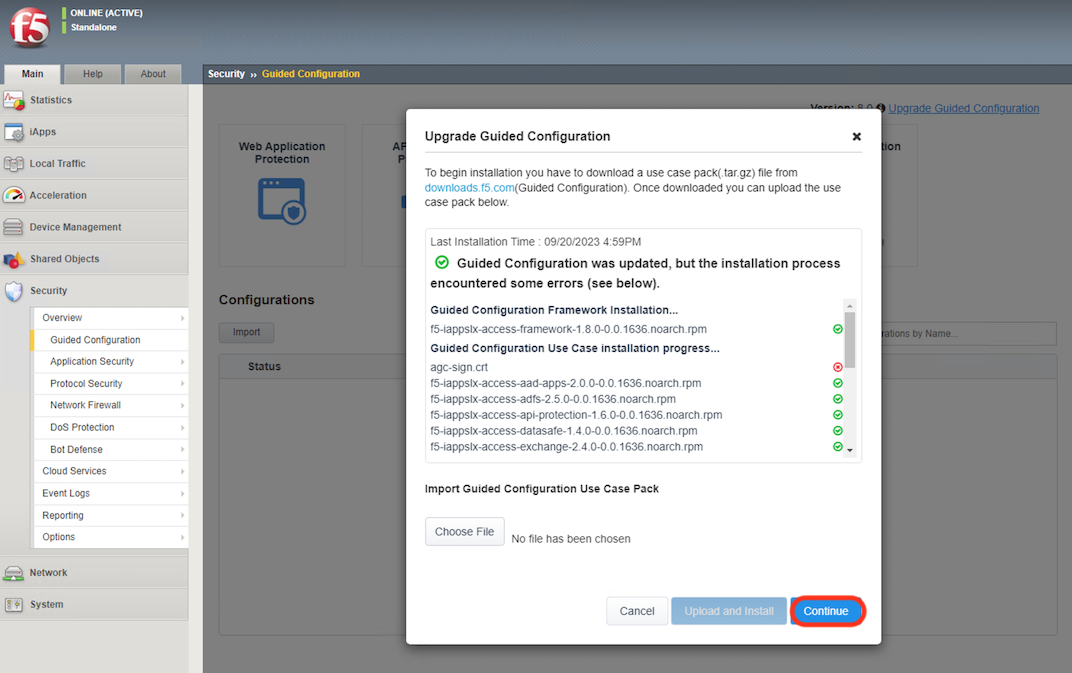
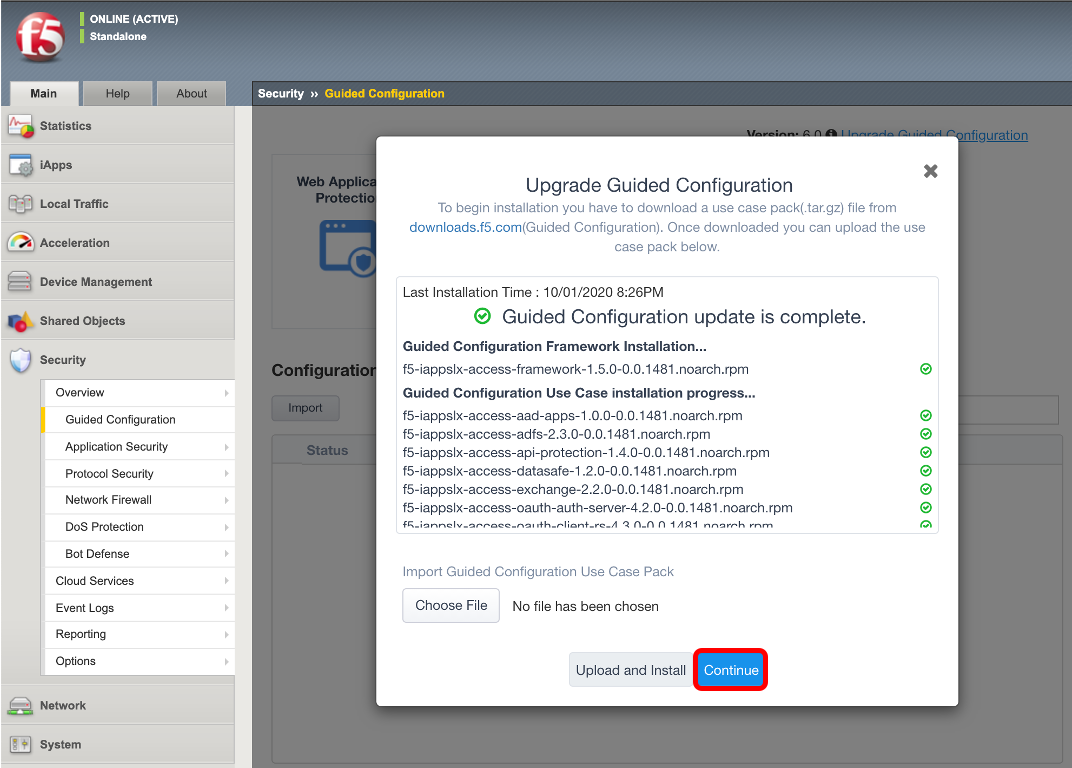
Revert "Guided Configurationのエラーについて追記"
This reverts commit 7b5ebb104904f24ab0fb1f7a79a2350fa1e4356e.

diff --git a/docs/content1/module05/module05.rst b/docs/content1/module05/module05.rst
@@ -17,7 +17,7 @@ Guided configurationによるWAFポリシーの作成
 
    .. image:: images/mod5-4.png
    |  
-#. インストールが終了したら、:guilabel:`Continue` ボタンを押します。（agc-sign.crt、usecase-pack-hash、usecase-pack-hash.signの3つはエラーと表示されますが、そのまま進めて問題ありません。）
+#. インストールが終了したら、:guilabel:`Continue` ボタンを押します。
 
    .. image:: images/mod5-5.png
    |  
